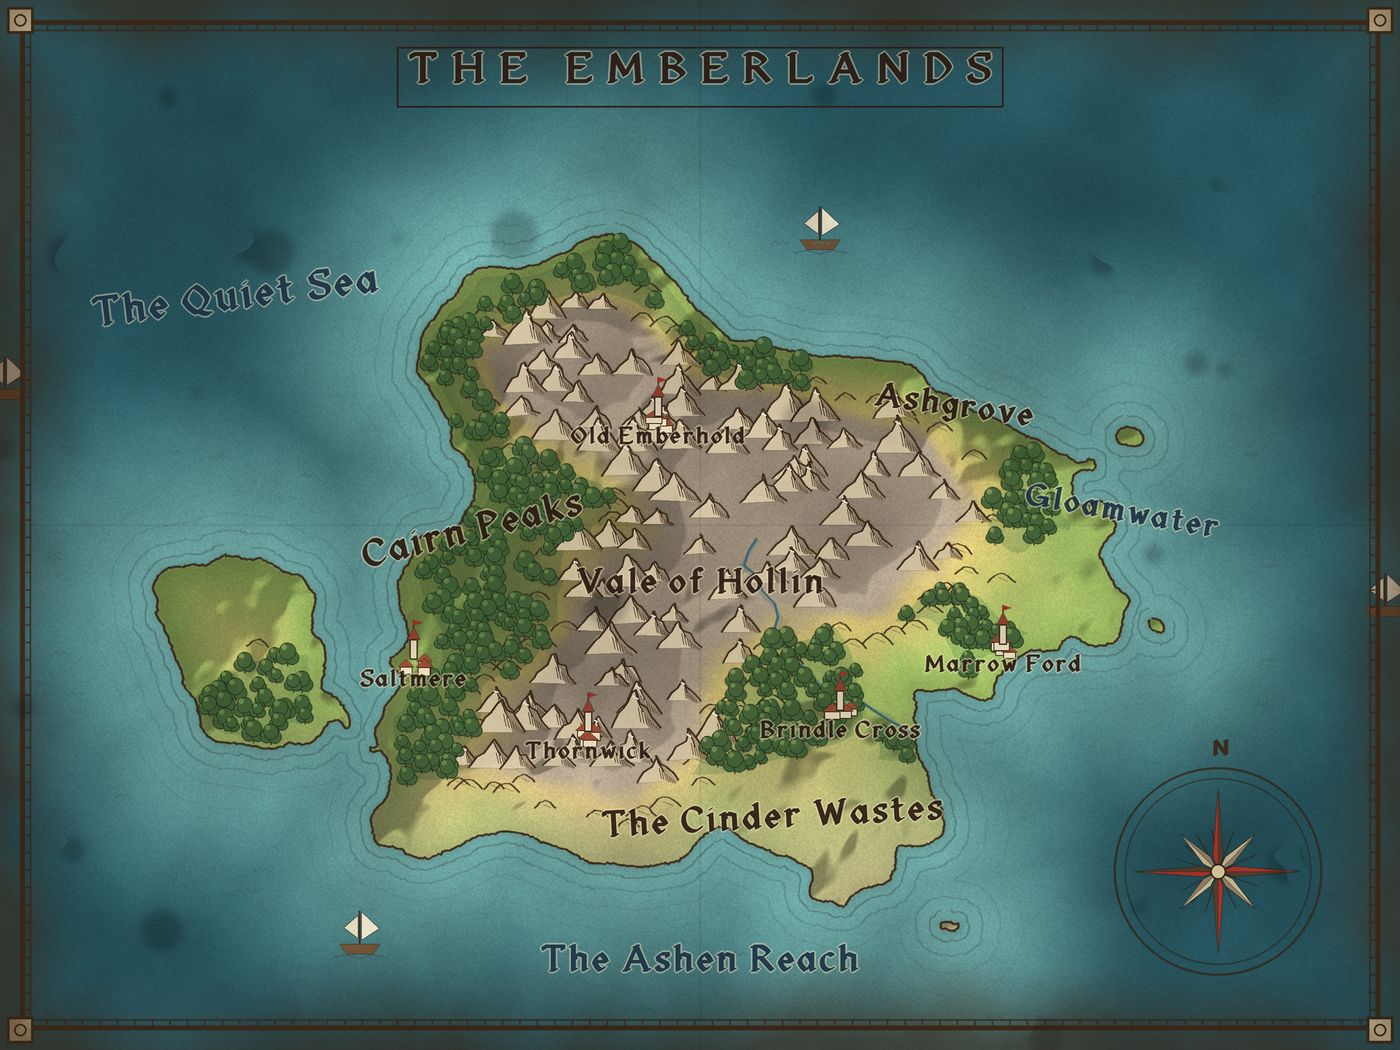
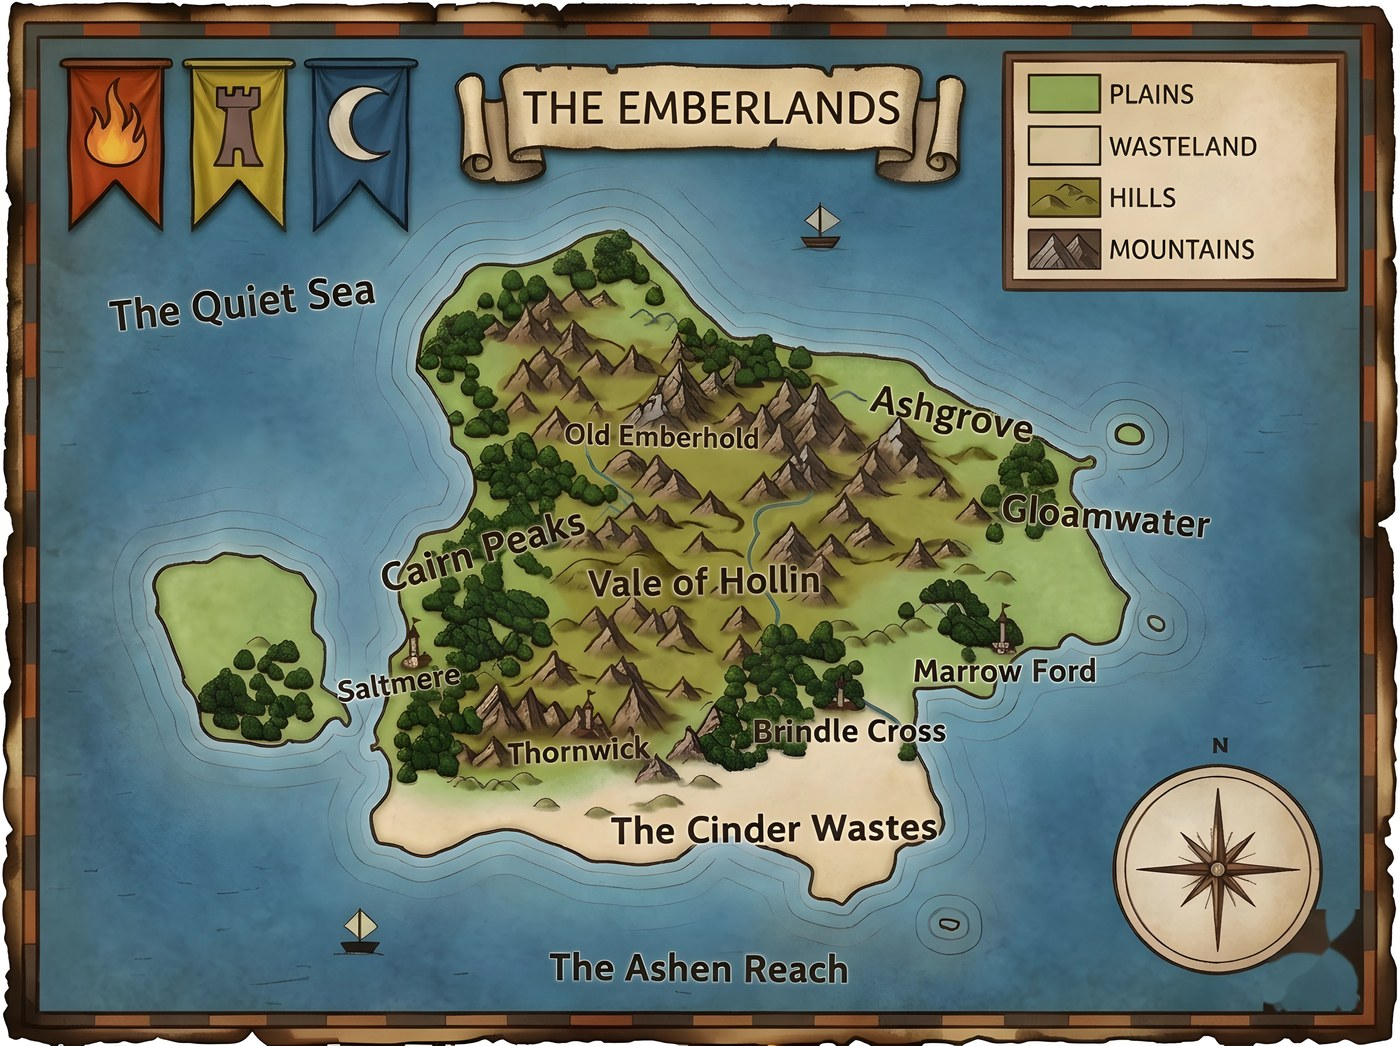
Demo book: finished map (map-4k.webp), real showcase captures
Round 1 checked and finished, 99ember imported; map-4k.webp committed in demo/99ember/.
Showcase images 10, 11, 30-46 and the README are real captures of the demo book and its
map pipeline; labels re-measured; the demo's item table copy added.

diff --git a/items/items-99ember.js b/items/items-99ember.js
@@ -1,0 +1,13 @@
+// DRAFT by tools/items_draft.mjs (2026-10-24): 3 sections, 3 with a todo.
+/* Book 99ember's items, drafted by script (ADR 0036): only the plain readings are filled in (Gold Crowns,
+   Meals and known items found, offered or lost; Endurance on arrival; gates on a known item or a fee).
+   Each todo names what the draft left to read in that section. Refine it by docs/reference/items.md:
+   read every todo's section and the reading list (items-reading.txt), add the book's own items, the
+   rolls, fights and the rest, then take out this header's first line. */
+export const ITEMS = {};
+
+export const SECTIONS = {
+  52: { todo: 'a gate: as the text says' },
+  61: { todo: 'items: as the text says' },
+  73: { todo: 'Endurance: as the text says' },
+};

diff --git a/docs/showcase/README.md b/docs/showcase/README.md
@@ -9,7 +9,7 @@ printed map. Plain HTML, CSS and JavaScript; no build step; plays offline on an 
 
 > **Representative screens only, to keep licensed content out.** Nothing on this page comes from a
 > Lone Wolf book. The screens are a stand-in book written for this showcase (*The Ember Road*), public-domain
-> engravings, the owner's own art and a made-up map. The real player plays the books from Project Aon
+> engravings, the owner's own art and a made-up map, run through the real pipeline. The real player plays the books from Project Aon
 > files kept locally and never committed. See [Credits](#credits).
 
 ## The player
@@ -109,7 +109,8 @@ table, *Release to the iPad* (the offline check first) and *Setup* for a fresh c
 ## Maps
 
 The printed maps are Project Aon's, so none is shown here. The process is shown on a made-up map, the
-Emberlands ([`make/make_map.py`](make/make_map.py) paints it and its stages from nothing):
+Emberlands: the demo book's own map (`demo/99ember/`), the owner's degraded Gemini scan run through every
+step of the real pipeline. The pictures below are real captures of it, a corner of the map at each stage:
 
 ![The Emberlands](images/45-emberlands-map.jpg)
 
@@ -118,13 +119,15 @@ Emberlands ([`make/make_map.py`](make/make_map.py) paints it and its stages from
 | ![](images/30-stage-1-scan.jpg) | ![](images/31-stage-2-upscale.jpg) | ![](images/32-stage-3-erase.jpg) | ![](images/33-stage-4-letter.jpg) | ![](images/34-stage-5-paint.jpg) | ![](images/35-stage-6-finish.jpg) |
 
 The names are erased from the scan and set again in a font; Gemini repaints the ground; and the finish step
-warps the paint onto the scan and re-sets any name it garbled (here "Thornwick").
+warps the paint onto the scan and re-sets any name it garbled.
 
 ![Before](images/36-zoom-before.jpg) ![After](images/37-zoom-after.jpg)
 
 *Before and after, the same spot: the 1024 px scan enlarged, and the 4K repaint.*
 
-Why not Gemini alone? It repaints beautifully but misspells names. (The middle picture imitates that failure.)
+Why not Gemini alone? It repaints beautifully but can misspell names and cannot go past its own size
+(this round came back with the names right, and the check still looked at every one). The pipeline keeps
+the scan's geometry and a 4K frame.
 
 | The scan | Gemini alone | The pipeline |
 |---|---|---|
@@ -135,16 +138,17 @@ moved (red) or outlines appeared or vanished (blue), and a label sheet sets each
 
 ![Check flags](images/41-check-flags.jpg) ![Label sheet](images/42-check-labels.jpg)
 
-One page, the map editor, runs every step (mock-ups on the made-up map):
+One page, the map editor, runs every step. Here it is inside the dashboard on the demo map, with its stage rail:
 
 ![Editor, labels](images/43-editor-labels.jpg) ![Editor, Gemini step](images/44-editor-gemini.jpg)
 
+![The editor's stage rail](images/46-editor-rail.jpg)
+
 ## Making this showcase again
 
-- [`make/ember-road-book.js`](make/ember-road-book.js): the stand-in book. Paste it into the player's console
+- The player screens (01-09) were taken on the stand-in book [`make/ember-road-book.js`](make/ember-road-book.js), now the real demo book `demo/99ember/` (start `python tools/serve.py`, use the title page link; or paste the old file into the player's console
   with `__lw.BOOKS['99ember'] = eval(`...`)` and `__lw.begin('99ember', true, true)`; serve its pictures from
-  `demo-book/` (a public-domain engraving from `assets/plates/` for the story page and the foe, and the map).
-- [`make/make_map.py`](make/make_map.py): `uv run --project tools python docs/showcase/make/make_map.py <outdir>`.
+  `demo-book/` (a public-domain engraving from `assets/plates/` for the story page and the foe, and the map)).
 - [`gemini-prompts.md`](gemini-prompts.md): prompts for painting finer versions of the made-up art in Gemini.
 
 ## Credits
@@ -154,7 +158,7 @@ One page, the map editor, runs every step (mock-ups on the made-up map):
 - *Lone Wolf HD Remastered* (Forge Reply): the look follows it; none of its art is used.
 - The drawing of Lone Wolf and the burning monastery: the owner's own (the monastery made with Google Gemini
   from the drawing).
-- *The Ember Road*, the Emberlands and its stages, and the editor mock-ups: made up for this showcase.
+- *The Ember Road* and the Emberlands (its map and every stage and screen shown of it): made up for this showcase.
 - Engravings (public domain, Wikimedia Commons): Brehm, Knobel, Rosomak, Schongauer, Doré, Piranesi, Haeckel,
   the Beast of Gévaudan print and others; see `assets/plates/README.txt`.
 - Icons: game-icons.net by Lorc, Delapouite and Skoll, CC BY 3.0 (`assets/icons/README.txt`). Fonts:

diff --git a/docs/reference/architecture.md b/docs/reference/architecture.md
@@ -36,7 +36,7 @@ assets/plates/              plates.json: pictures for enemies their book does no
                             section/enemy number -> picture; no book text (ADR 0008)
 CLAUDE.md, README.md
 docs/                       spec, plan, reference
-demo/99ember/               the made-up demo book (ruling R20): pages in Project Aon's layout, pictures, map, items.js; tools/demo_book.py
+demo/99ember/               the made-up demo book (ruling R20): pages in Project Aon's layout, pictures, map.png and its finished map-4k.webp, items.js; tools/demo_book.py
                             installs it into data/projectaon/; PC only, never released
   showcase/                 the public showcase (README with images, Gemini prompts, the stand-in book and map maker); stand-in content only, ruling R19
   book-status.json          the book steps no file can show (checklist 3, 4, 6, 7), with the date each was

diff --git a/docs/showcase/gemini-prompts.md b/docs/showcase/gemini-prompts.md
@@ -1,6 +1,6 @@
 # Prompts for finer showcase art (Gemini)
 
-The showcase's made-up art is drawn by script (`make/make_map.py`) or borrowed from public-domain
+The showcase's made-up art is the demo book's (`demo/99ember/`) or borrowed from public-domain
 engravings. These prompts are for painting richer versions to swap in. None names a living artist or a book.
 Give Gemini the picture named in "Reference" where there is one, and keep any text exactly as listed.
 
